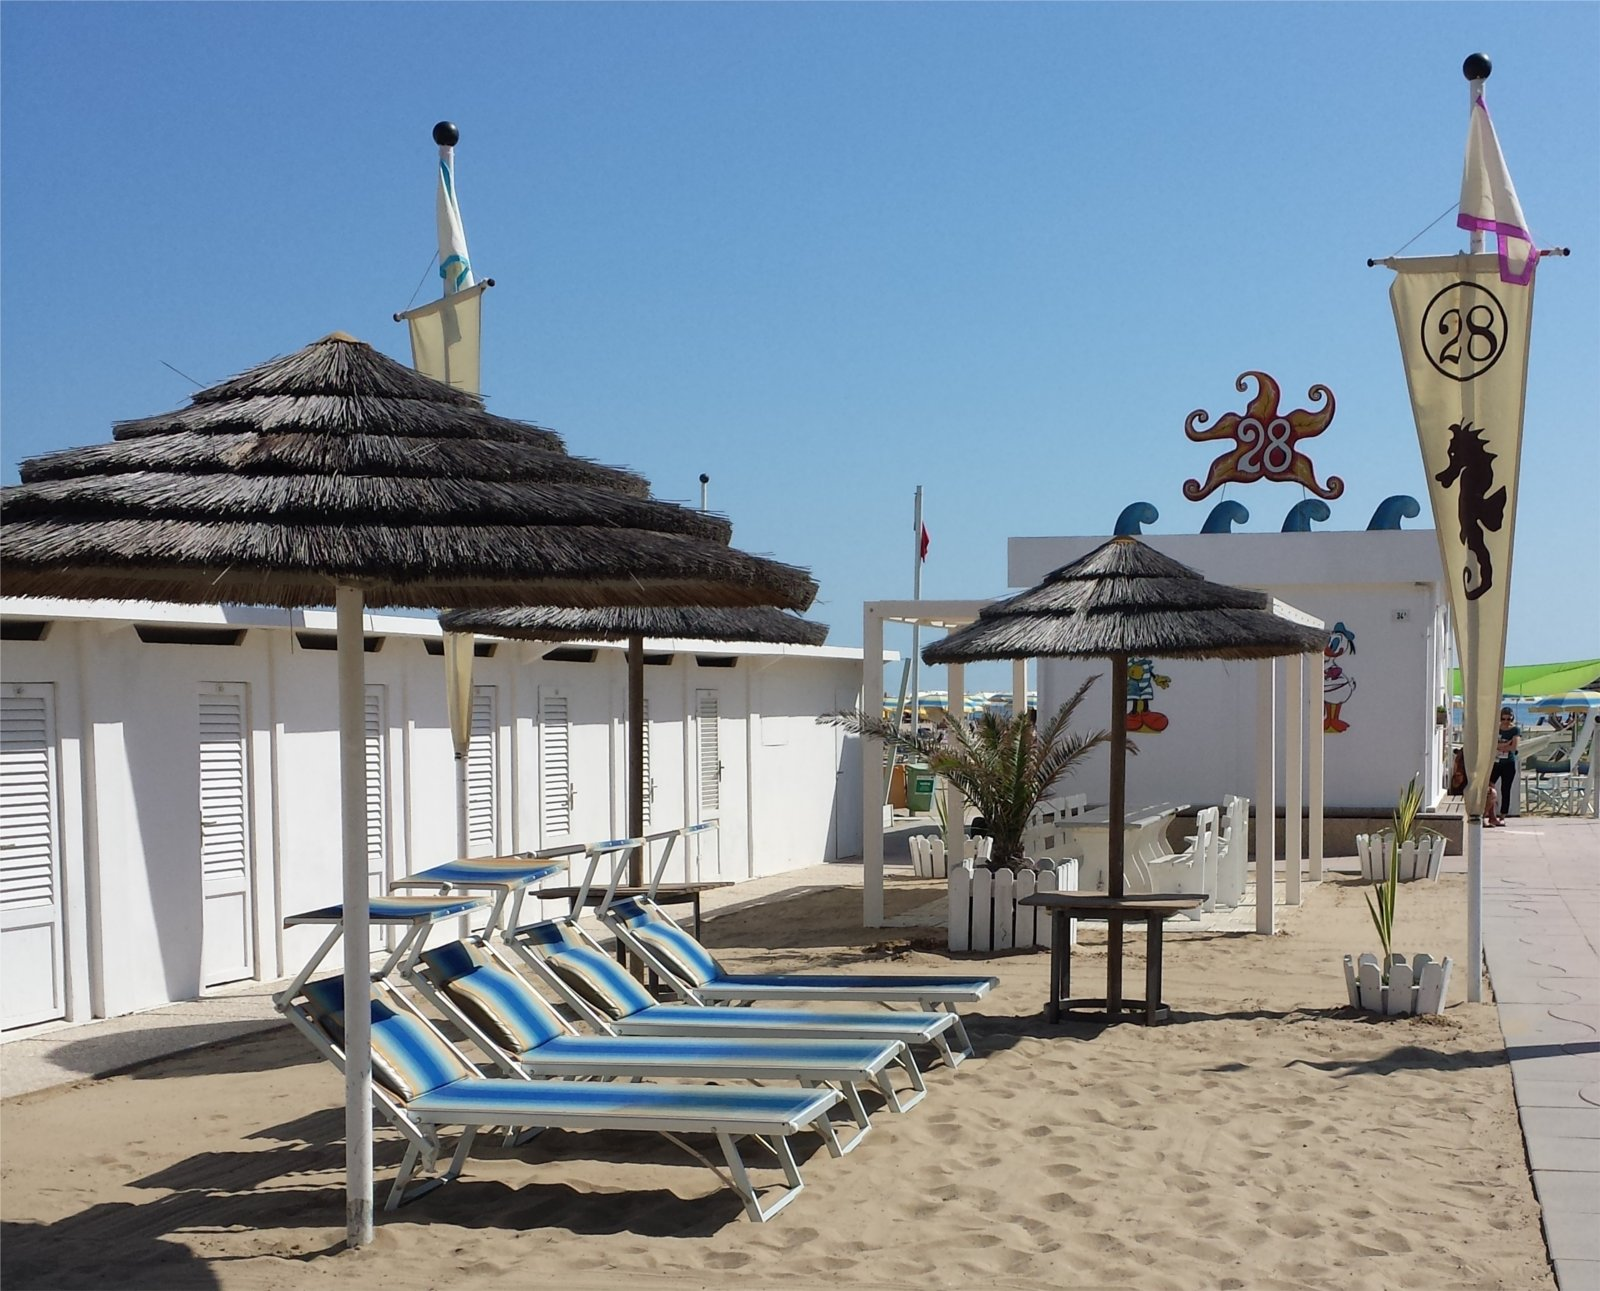
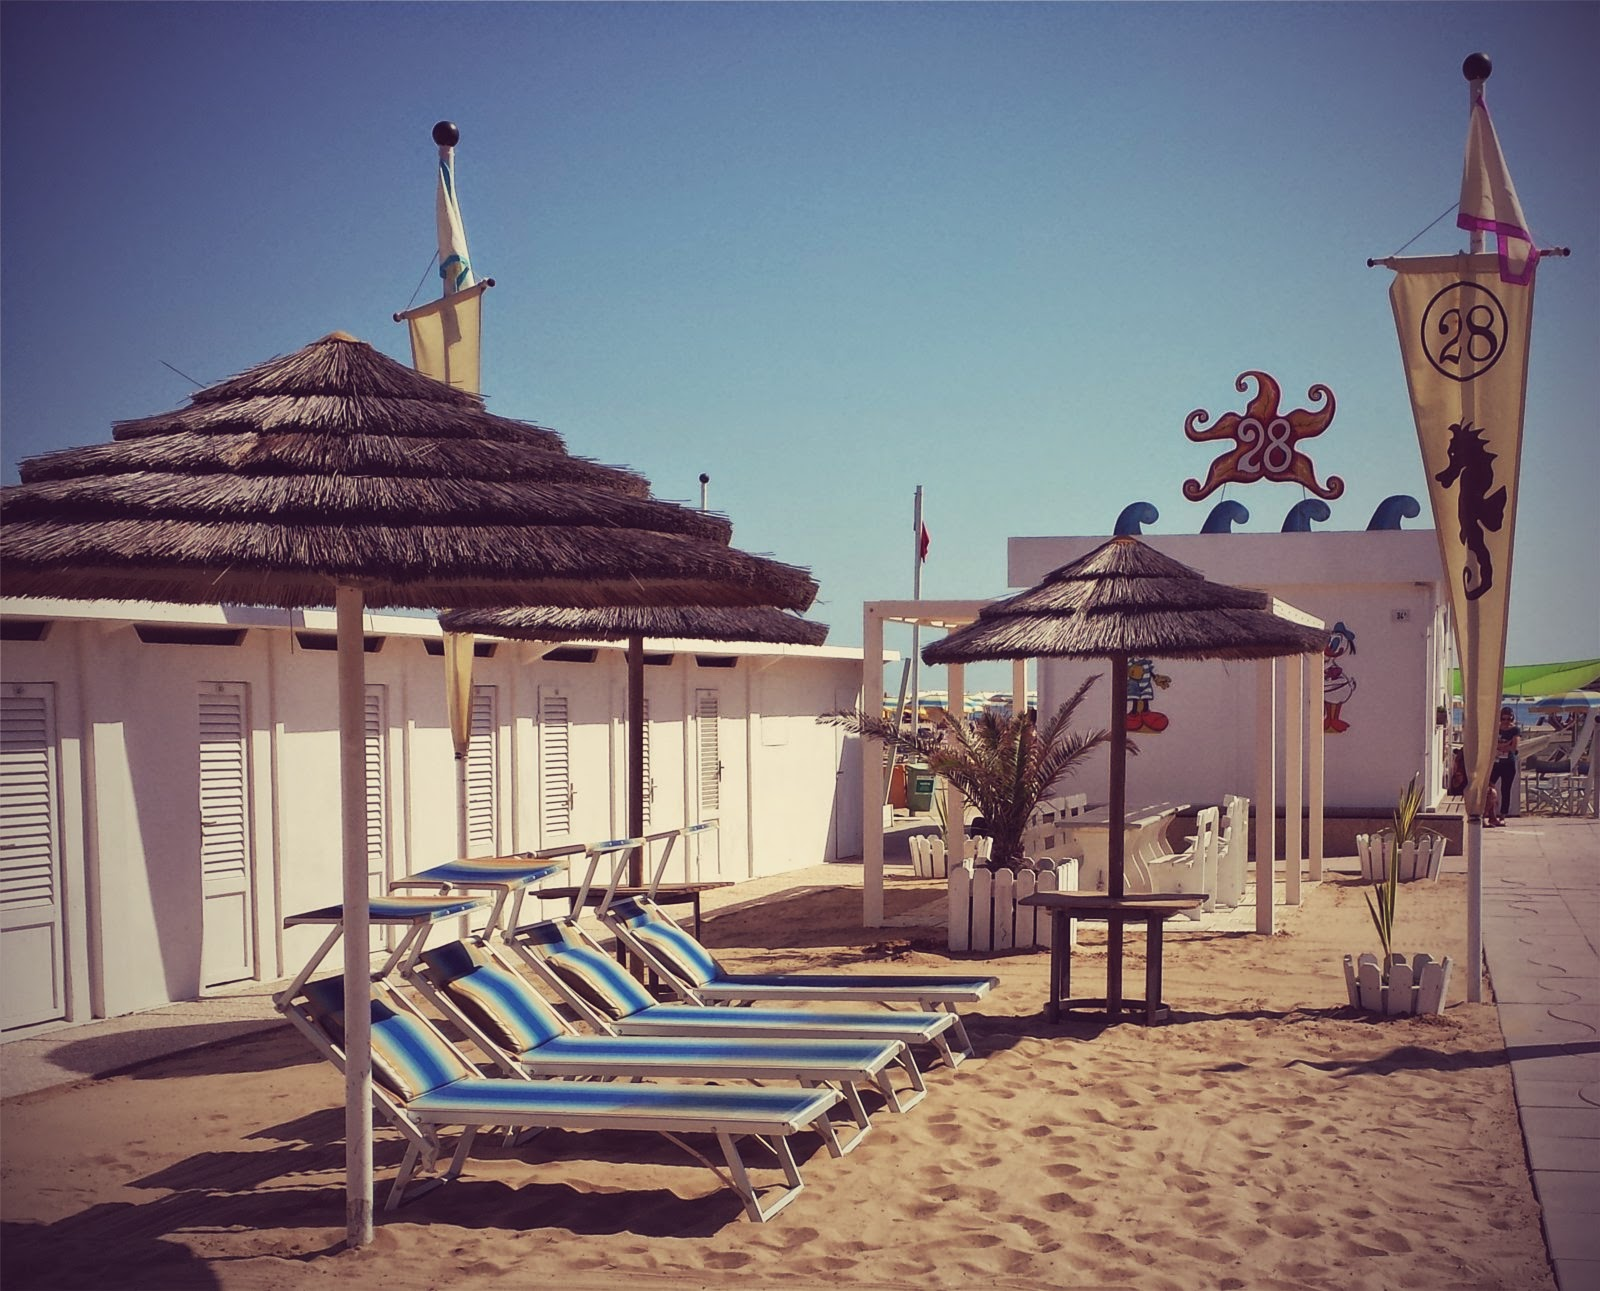
readded hp image effects (I hate people calling collectsatic without -l param)

diff --git a/bagni/templates/bagni/homepage.html b/bagni/templates/bagni/homepage.html
@@ -123,7 +123,7 @@
 <script type="text/javascript">
     //Trying to preload image
     img1 = new Image();
-    img1.src = "{{ STATIC_URL }}img/otellohp.jpg?v=1";
+    img1.src = "{{ STATIC_URL }}img/otellohp.jpg?v=3";
     $(function() {
     $.backstretch(img1.src);
 });
